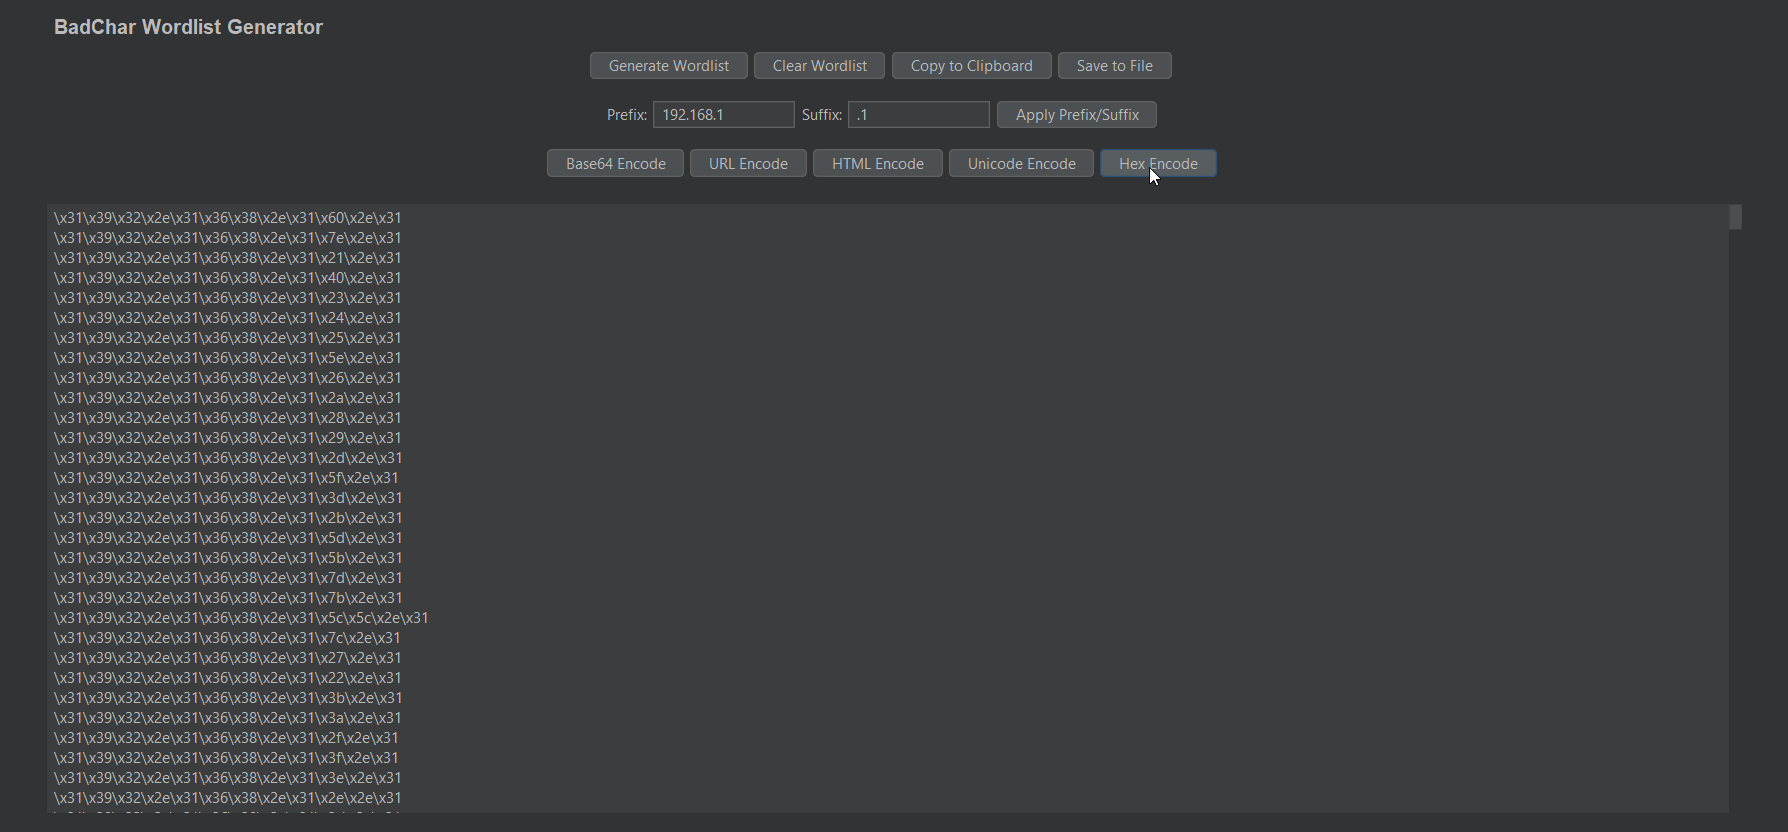
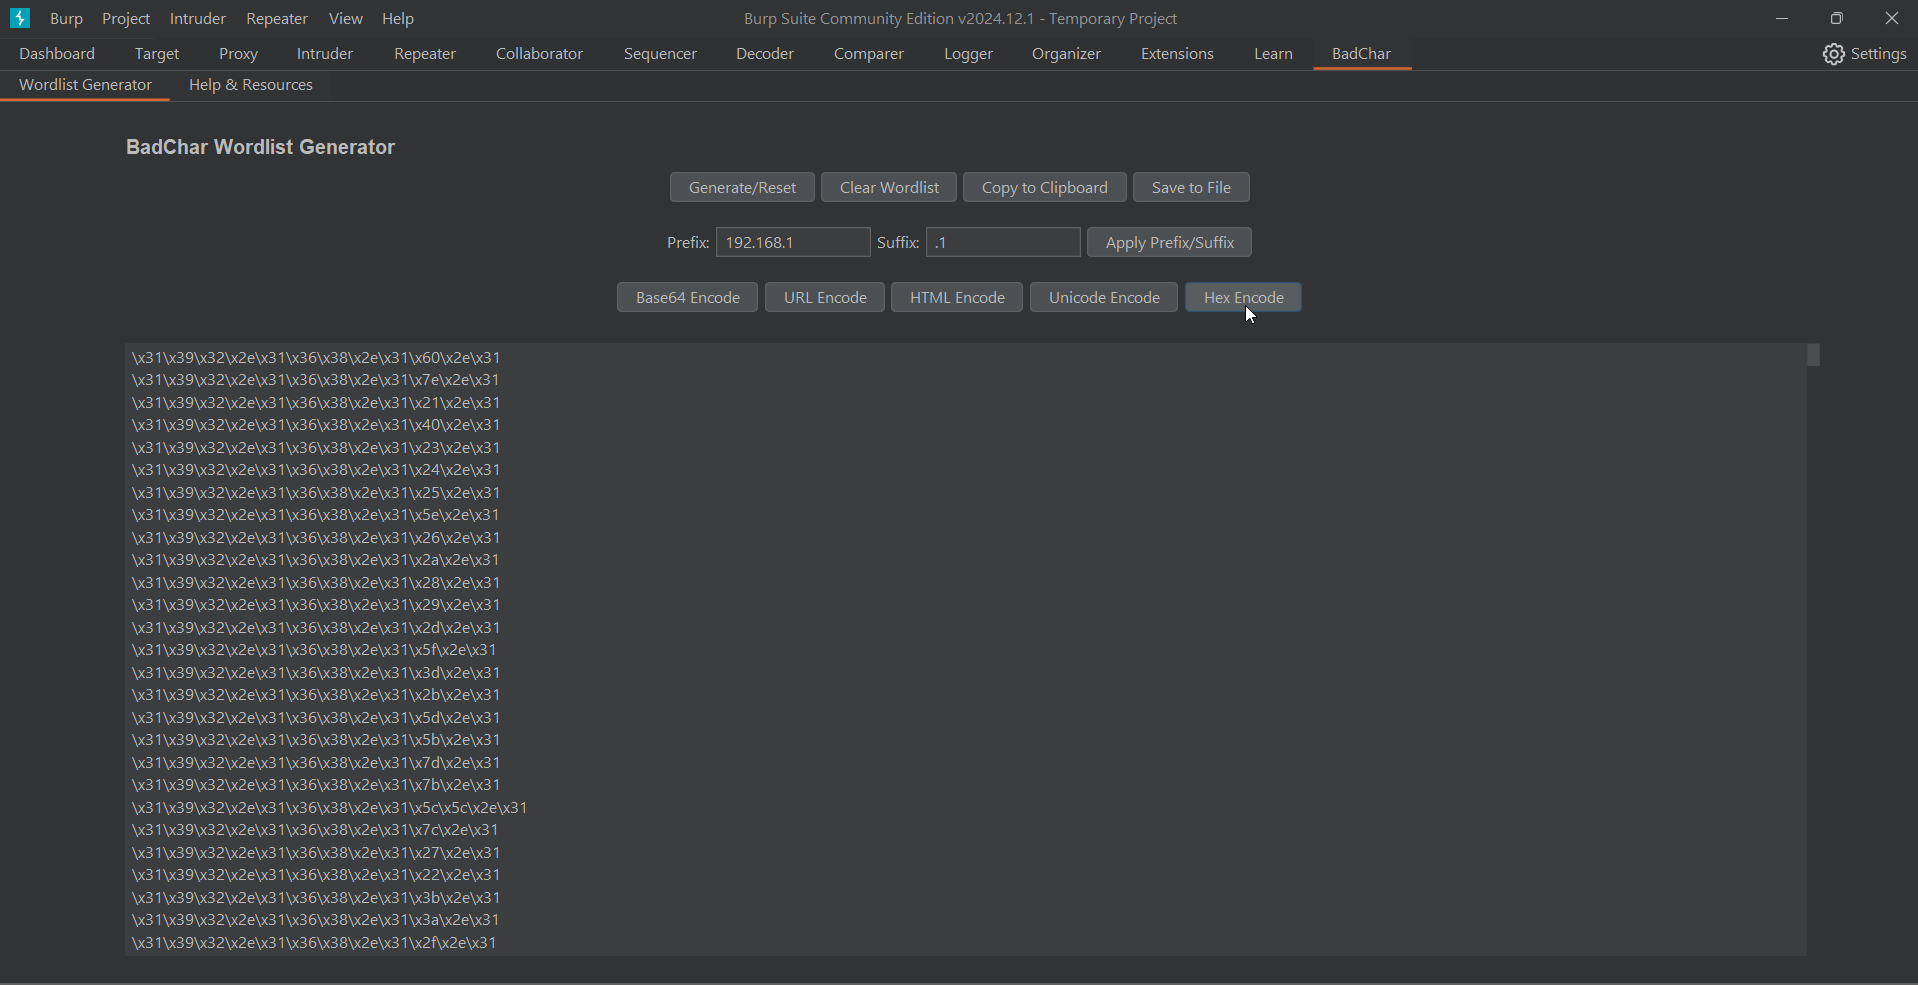
Fix Bugs

diff --git a/Badchar.py b/Badchar.py
@@ -757,7 +757,8 @@ class BurpExtender(IBurpExtender, IIntruderPayloadGeneratorFactory, ITab):
         callbacks.registerIntruderPayloadGeneratorFactory(self)
 
         self.initUI()
-        print("Extension loaded: BadChar Wordlist Generator\nThis tool allows you to generate custom wordlists with bad characters, encoding options, "
+        self.generateWordlist(None)
+        print("\nExtension loaded: BadChar Wordlist Generator\nThis tool allows you to generate custom wordlists with bad characters, encoding options, "
             "and add prefix/suffix in BadChars or Custom payloads.\n\n\n\n\nHashtag_AMIN\nhttps://github.com/Hashtag-AMIN\nHappy Hunting ;)")
 
     def initUI(self):
@@ -777,7 +778,7 @@ class BurpExtender(IBurpExtender, IIntruderPayloadGeneratorFactory, ITab):
         self.unicodeEncodeButton = JButton("Unicode Encode", actionPerformed=self.unicodeEncodeChar)
         self.hexEncodeButton = JButton("Hex Encode", actionPerformed=self.hexEncodeChar)
 
-        self.generateButton = JButton("Generate Wordlist", actionPerformed=self.generateWordlist)
+        self.generateButton = JButton("Generate/Reset", actionPerformed=self.generateWordlist)
         self.applyButton = JButton("Apply Prefix/Suffix", actionPerformed=self.applyPrefixSuffix)
         self.clearButton = JButton("Clear Wordlist", actionPerformed=self.clearWordlist)
         self.copyButton = JButton("Copy to Clipboard", actionPerformed=self.copyToClipboard)
@@ -862,7 +863,7 @@ class BurpExtender(IBurpExtender, IIntruderPayloadGeneratorFactory, ITab):
 
     def generateWordlist(self, event):
         self.base_wordlist = badchars
-        self.updateWordlistDisplay()
+        self.wordlistArea.setText("\n".join(self.base_wordlist))
 
     def clearWordlist(self, event):
         self.wordlistArea.setText("")
@@ -870,12 +871,9 @@ class BurpExtender(IBurpExtender, IIntruderPayloadGeneratorFactory, ITab):
     def applyPrefixSuffix(self, event):
         prefix = self.prefixField.getText()
         suffix = self.suffixField.getText()
-        updated_words = ["{}{}{}".format(prefix, word, suffix) for word in self.base_wordlist]
+        words = self.wordlistArea.getText().splitlines()
+        updated_words = ["{}{}{}".format(prefix, word.encode("utf-8"), suffix) for word in words]
         self.wordlistArea.setText("\n".join(updated_words))
-        self._callbacks.printOutput("Prefix and suffix applied.")
-
-    def updateWordlistDisplay(self):
-        self.wordlistArea.setText("\n".join(self.base_wordlist))
 
     def base64Encode(self, event):
         words = self.wordlistArea.getText().splitlines()
@@ -906,7 +904,6 @@ class BurpExtender(IBurpExtender, IIntruderPayloadGeneratorFactory, ITab):
         wordlist = self.wordlistArea.getText()
         clipboard = tk.getDefaultToolkit().getSystemClipboard()
         clipboard.setContents(dt.StringSelection(wordlist), None)
-        self._callbacks.printOutput("Wordlist copied to clipboard.")
 
     def saveToFile(self, event):
         fileChooser = JFileChooser()
@@ -921,13 +918,14 @@ class BurpExtender(IBurpExtender, IIntruderPayloadGeneratorFactory, ITab):
         return "BadChar"
 
     def createNewInstance(self, attack):
-        return BadCharactersPayloadGenerator(self._callbacks)
+        self.base_wordlist = self.wordlistArea.getText().splitlines()
+        return BadCharactersPayloadGenerator(self._callbacks, self.base_wordlist)
 
 
 class BadCharactersPayloadGenerator(IIntruderPayloadGenerator):
-    def __init__(self, callbacks):
+    def __init__(self, callbacks, wordlist):
         self._callbacks = callbacks
-        self._payloads = badchars
+        self._payloads = wordlist
         self._current_index = 0
         print("Loaded {} payloads".format(len(self._payloads)))
 

diff --git a/README.md b/README.md
@@ -17,19 +17,20 @@
 ### Wordlist Generator
 
 1. Navigate to the **BadChar** tab.
-2. Click "Generate Wordlist" to create a list of bad characters.
-3. Add a prefix or suffix using the text fields and click "Apply Prefix/Suffix."
-4. Choose an encoding method by clicking the respective button (e.g., "Base64 Encode").
-5. Save the wordlist to a file or copy it to your clipboard.
+2. Default Wordlist generate when extension run, also able reset with "Generate/Reset" button
+3. Add a prefix or suffix using the text fields and click "Apply Prefix/Suffix"
+4. Choose an encoding method by clicking the respective button (e.g., "Base64 Encode")
+5. Save the wordlist to a file or copy it to your clipboard
 6. all steps are flexible and able to choose without order
-7. Click "Generate Wordlist", "Apply Prefix/Suffix" or "Clear Wordlist" for return each step
+7. Click "Generate/Reset", "Apply Prefix/Suffix" or "Clear Wordlist" for return each step
 
 ### Integration with Intruder
 
-1. Send a request to Burp Suite Intruder.
-2. In the **Payloads** menu, choose "Extension-generated."
-3. Select "BadChar" as the generator.
-4. Start the attack.
+1. Send a request to Burp Suite Intruder
+2. Prepare wordlist in BadChar tab, able to edit or encode your payload for send to Intruder with default or custom wordlist
+3. In the **Payloads** menu, choose "Extension-generated."
+4. Select "BadChar" as the generator.
+5. Start the attack.
 
 ## Example Use Case
 
@@ -58,7 +59,12 @@
 
 <img src="./Img/badchar4.png">
 
-### Easy save or copy clipboar
+
+- Edit and customize your payloads
+
+<img src="./Img/badchar5.png">
+
+### Easy save or copy clipboard
 
 - Save wordlists to a file or copy them to your clipboard.
 
